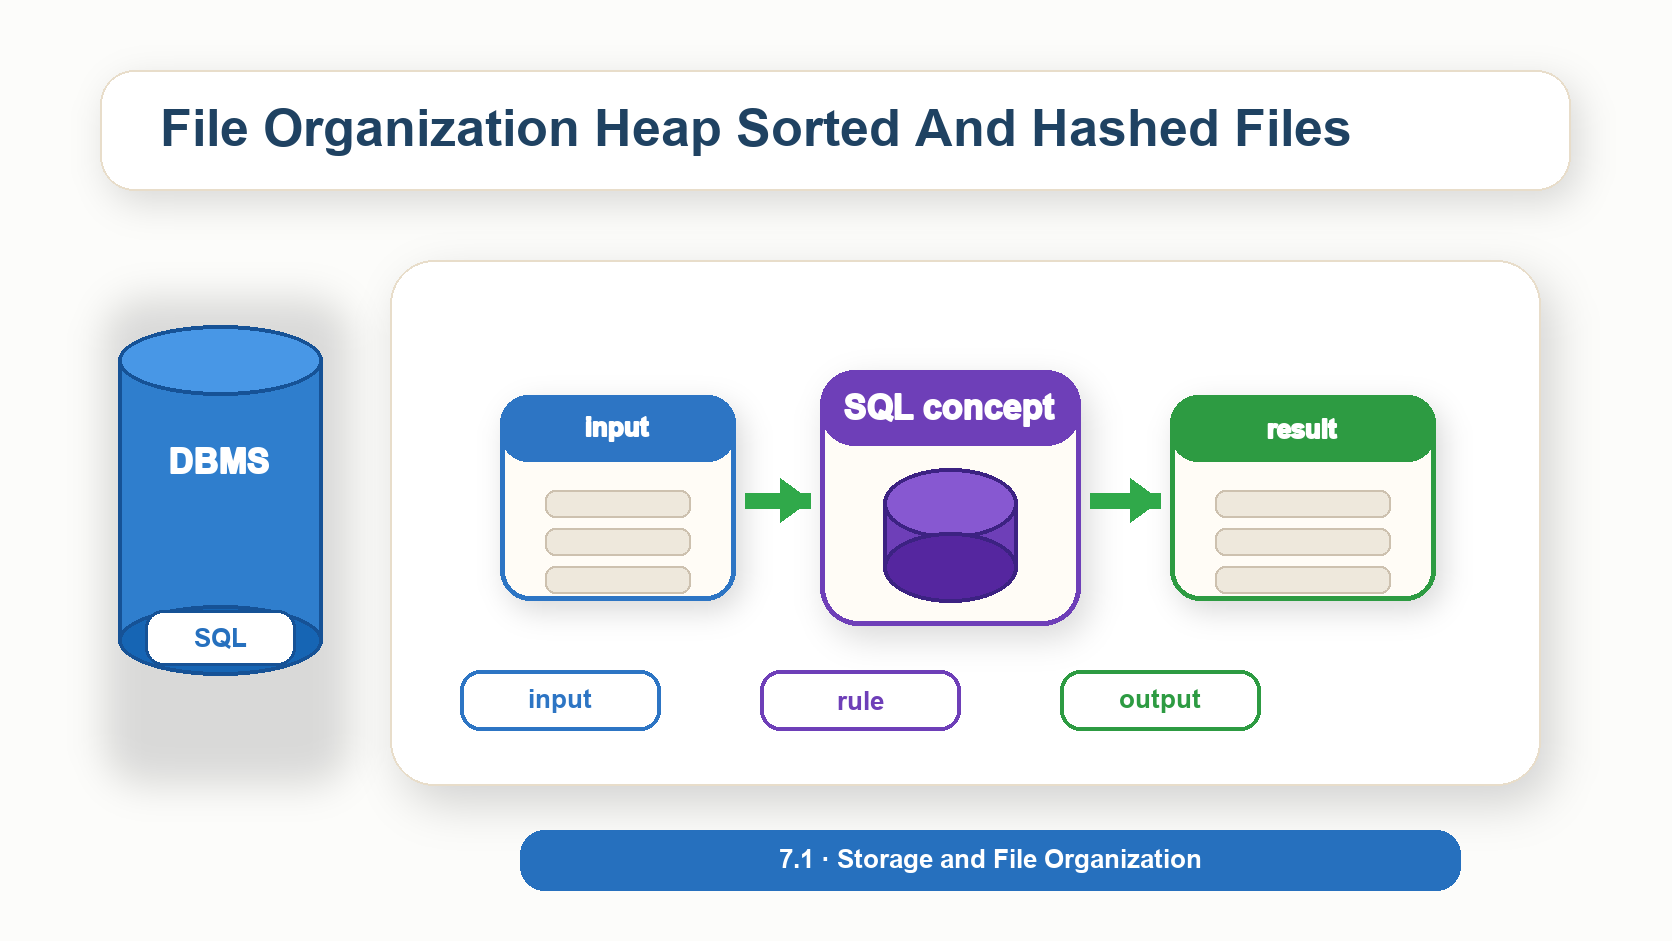
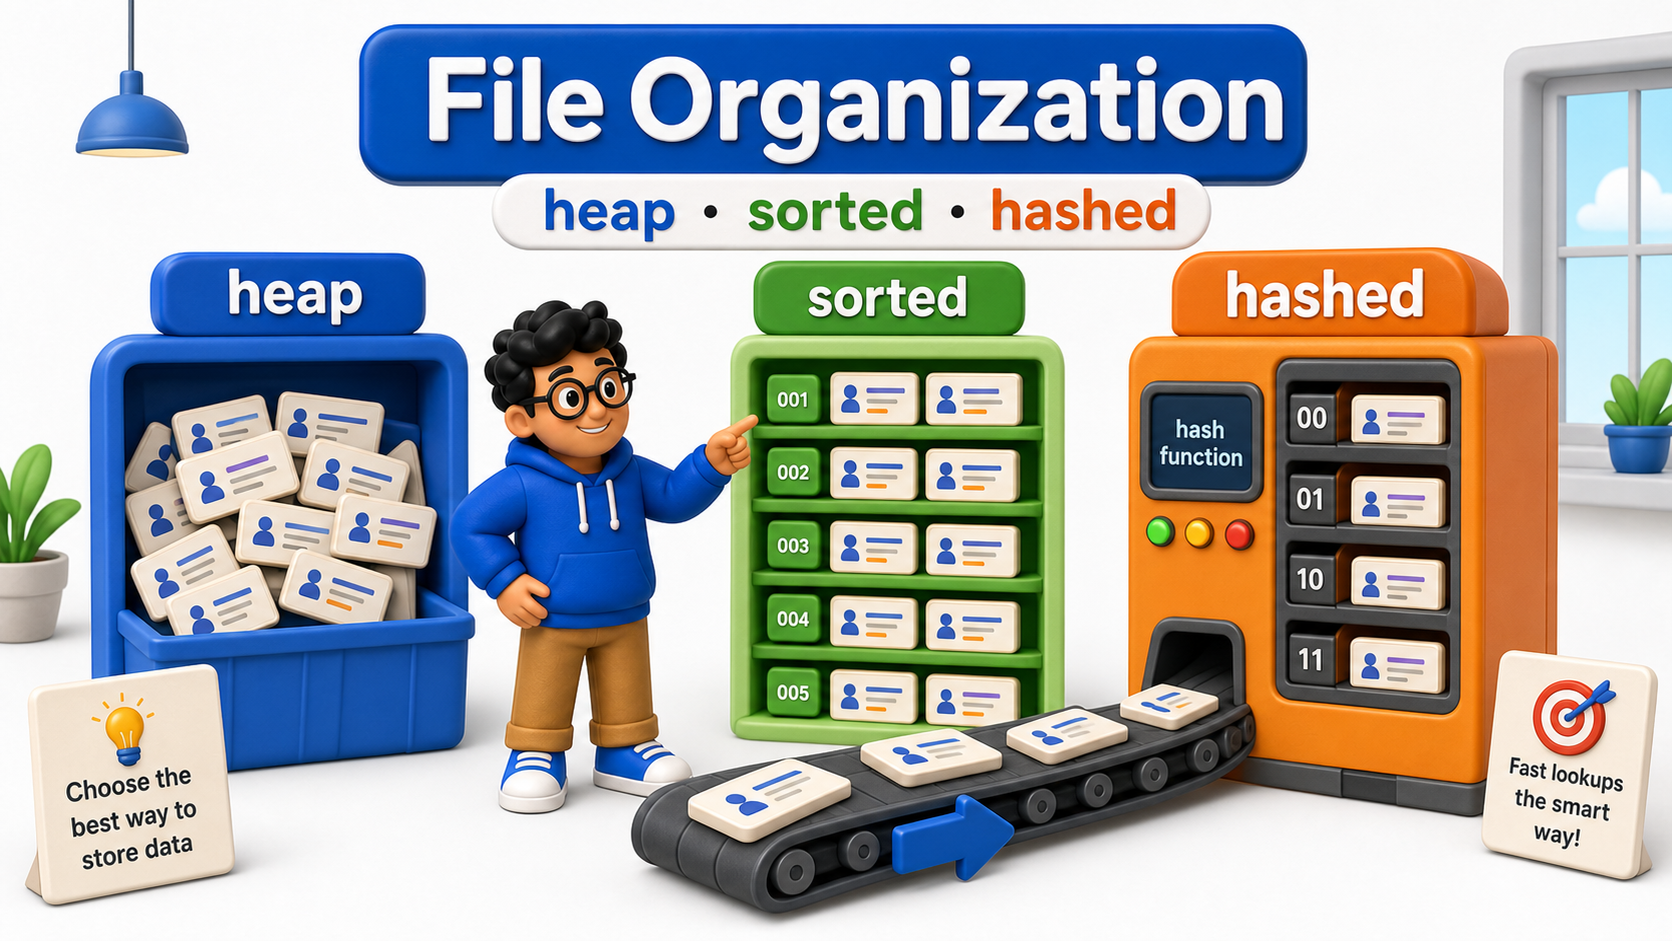
Replace unit 7.1 intro placeholders with actual 3D visuals

diff --git a/content/DBMS_Upload_Chapters/7.1 - Storage and File Organization/02_file_organization_heap_sorted_and_hashed_files.md b/content/DBMS_Upload_Chapters/7.1 - Storage and File Organization/02_file_organization_heap_sorted_and_hashed_files.md
@@ -6,7 +6,7 @@ There are a few standard strategies for how a table's file can be organized, and
 
 **Definition:** A heap places rows wherever space is free, with no ordering guarantee, sorted or clustered organization keeps rows physically near others with similar values in a chosen column, and hashed organization groups rows by a computed bucket for fast exact-match lookups, each with a different trade-off between write simplicity and read speed for a particular kind of query.
 
-![Intro visual for file organization heap sorted and hashed files](https://s3.ap-south-1.amazonaws.com/static.bytexl.app/uploads/44sjn9mdv/content/images/02_intro_file_organization_heap_sorted_and_hashed_files_clean_6aae821c.png)
+![Intro visual for file organization heap sorted and hashed files](https://s3.ap-south-1.amazonaws.com/static.bytexl.app/uploads/44sjn9mdv/content/images/02_intro_file_organization_heap_sorted_and_hashed_files_actual3d_41c7b27e.png)
 
 ## Heap Organization: Rows Land Wherever There Is Room
 

diff --git a/content/DBMS_Upload_Chapters/7.1 - Storage and File Organization/03_why_storage_layout_affects_query_speed.md b/content/DBMS_Upload_Chapters/7.1 - Storage and File Organization/03_why_storage_layout_affects_query_speed.md
@@ -6,7 +6,7 @@ This lesson connects those two facts directly to something Priya can actually se
 
 **Definition:** Without a supporting structure on the column being filtered, a heap-organized table forces a query into a `full table scan`, reading every single page and checking every single row, with cost that scales directly with table size regardless of how few rows the query actually needs; the `primary key` search escaped this fate only because PostgreSQL quietly built an index for it.
 
-![Intro visual for why storage layout affects query speed](https://s3.ap-south-1.amazonaws.com/static.bytexl.app/uploads/44sjn9mdv/content/images/03_intro_why_storage_layout_affects_query_speed_clean_2b5f93cc.png)
+![Intro visual for why storage layout affects query speed](https://s3.ap-south-1.amazonaws.com/static.bytexl.app/uploads/44sjn9mdv/content/images/03_intro_why_storage_layout_affects_query_speed_actual3d_3488150b.png)
 
 ## Watching a Full Table Scan Happen
 

diff --git a/content/DBMS_Upload_Chapters/7.1 - Storage and File Organization/01_how_data_is_stored.md b/content/DBMS_Upload_Chapters/7.1 - Storage and File Organization/01_how_data_is_stored.md
@@ -8,7 +8,7 @@ Priya, the finance analyst from earlier reporting lessons, has started noticing 
 
 **Definition:** A table is physically stored as a sequence of fixed-size pages, each holding many rows, and every read has to fetch a whole page at a time rather than a single row in isolation, which is the physical fact underneath every performance question this unit is about to explore.
 
-![Intro visual for how data is stored](https://s3.ap-south-1.amazonaws.com/static.bytexl.app/uploads/44sjn9mdv/content/images/01_intro_how_data_is_stored_clean_5649880d.png)
+![Intro visual for how data is stored](https://s3.ap-south-1.amazonaws.com/static.bytexl.app/uploads/44sjn9mdv/content/images/01_intro_how_data_is_stored_actual3d_146ef03f.png)
 
 ## Rows Live Inside Pages, Not Loose on Disk
 

diff --git a/content/DBMS/7 - Performance/7.1 - Storage and File Organization/02_file_organization_heap_sorted_and_hashed_files.md b/content/DBMS/7 - Performance/7.1 - Storage and File Organization/02_file_organization_heap_sorted_and_hashed_files.md
@@ -20,7 +20,7 @@ ON-IMAGE TEXT: show a short bold title "File Organization Heap Sorted And Hashed
 GOAL: make the opening idea instantly clear and engaging while matching the existing DBMS reading-material image standards.
 -->
 
-![Intro visual for file organization heap sorted and hashed files](https://s3.ap-south-1.amazonaws.com/static.bytexl.app/uploads/44sjn9mdv/content/images/02_intro_file_organization_heap_sorted_and_hashed_files_clean_6aae821c.png)
+![Intro visual for file organization heap sorted and hashed files](https://s3.ap-south-1.amazonaws.com/static.bytexl.app/uploads/44sjn9mdv/content/images/02_intro_file_organization_heap_sorted_and_hashed_files_actual3d_41c7b27e.png)
 
 ## Heap Organization: Rows Land Wherever There Is Room
 

diff --git a/content/DBMS/7 - Performance/7.1 - Storage and File Organization/03_why_storage_layout_affects_query_speed.md b/content/DBMS/7 - Performance/7.1 - Storage and File Organization/03_why_storage_layout_affects_query_speed.md
@@ -20,7 +20,7 @@ ON-IMAGE TEXT: show a short bold title "Why Storage Layout Affects Query Speed" 
 GOAL: make the opening idea instantly clear and engaging while matching the existing DBMS reading-material image standards.
 -->
 
-![Intro visual for why storage layout affects query speed](https://s3.ap-south-1.amazonaws.com/static.bytexl.app/uploads/44sjn9mdv/content/images/03_intro_why_storage_layout_affects_query_speed_clean_2b5f93cc.png)
+![Intro visual for why storage layout affects query speed](https://s3.ap-south-1.amazonaws.com/static.bytexl.app/uploads/44sjn9mdv/content/images/03_intro_why_storage_layout_affects_query_speed_actual3d_3488150b.png)
 
 ## Watching a Full Table Scan Happen
 

diff --git a/content/DBMS/7 - Performance/7.1 - Storage and File Organization/01_how_data_is_stored.md b/content/DBMS/7 - Performance/7.1 - Storage and File Organization/01_how_data_is_stored.md
@@ -22,7 +22,7 @@ ON-IMAGE TEXT: show a short bold title "How Data Is Stored" plus only these few 
 GOAL: make the opening idea instantly clear and engaging while matching the existing DBMS reading-material image standards.
 -->
 
-![Intro visual for how data is stored](https://s3.ap-south-1.amazonaws.com/static.bytexl.app/uploads/44sjn9mdv/content/images/01_intro_how_data_is_stored_clean_5649880d.png)
+![Intro visual for how data is stored](https://s3.ap-south-1.amazonaws.com/static.bytexl.app/uploads/44sjn9mdv/content/images/01_intro_how_data_is_stored_actual3d_146ef03f.png)
 
 ## Rows Live Inside Pages, Not Loose on Disk
 
